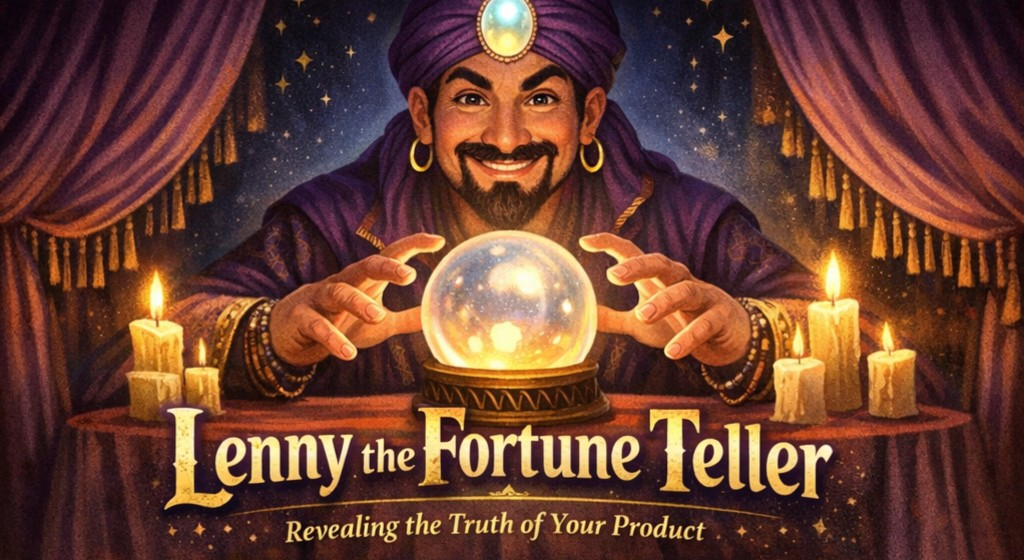
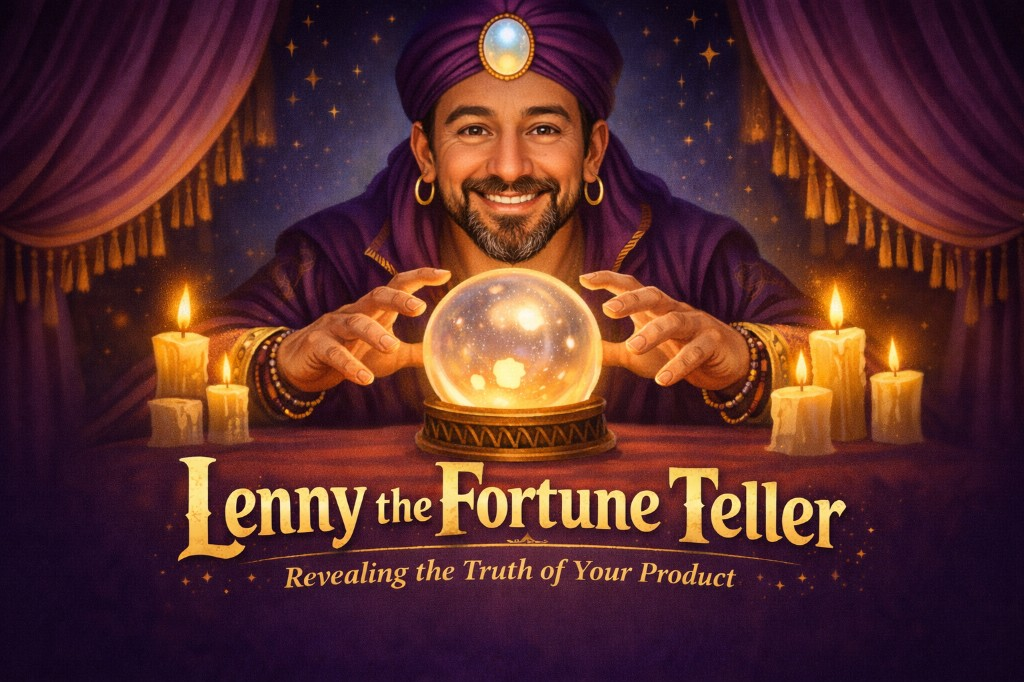
feat: new hero image with seamless fade, parallax, and deeper overlap
- Replace hero illustration with higher-res version
- Use mask-image on the image itself for smooth bottom dissolve
- Add dark purple gradient + vignette + purple glow overlay
- Add subtle scroll parallax (0.12x)
- Increase content overlap (-mt-20/28) so UI emerges from image

Made-with: Cursor

diff --git a/components/Hero.tsx b/components/Hero.tsx
@@ -1,10 +1,10 @@
 "use client"
 
-import { useMemo } from "react"
+import { useState, useEffect, useMemo } from "react"
 import { motion } from "framer-motion"
 import Image from "next/image"
 
-const PARTICLE_COUNT = 24
+const PARTICLE_COUNT = 20
 
 const seededRandom = (seed: number) => {
   const x = Math.sin(seed * 9301 + 49297) * 49297
@@ -12,6 +12,14 @@ const seededRandom = (seed: number) => {
 }
 
 const Hero = () => {
+  const [scrollY, setScrollY] = useState(0)
+
+  useEffect(() => {
+    const handleScroll = () => setScrollY(window.scrollY)
+    window.addEventListener("scroll", handleScroll, { passive: true })
+    return () => window.removeEventListener("scroll", handleScroll)
+  }, [])
+
   const heroParticles = useMemo(
     () =>
       Array.from({ length: PARTICLE_COUNT }, (_, i) => ({
@@ -28,92 +36,78 @@ const Hero = () => {
 
   return (
     <motion.section
-      className="relative w-full overflow-hidden"
+      className="relative w-full h-[380px] sm:h-[440px] md:h-[500px] lg:h-[540px] overflow-hidden"
       aria-label="Hero illustration"
-      initial={{ opacity: 0 }}
-      animate={{ opacity: 1 }}
-      transition={{ duration: 1.2, ease: "easeOut" }}
+      initial={{ opacity: 0, scale: 1.03 }}
+      animate={{ opacity: 1, scale: 1 }}
+      transition={{ duration: 1, ease: "easeOut" }}
     >
-      {/* ——— IMAGE CONTAINER ——— */}
-      <div className="relative w-full h-[280px] sm:h-[340px] md:h-[400px] lg:h-[420px]">
+      {/* ——— IMAGE (parallax + mask fade) ——— */}
+      <div
+        className="absolute inset-0 will-change-transform"
+        style={{ transform: `translateY(${scrollY * 0.12}px)` }}
+      >
         <div className="absolute inset-0 animate-hero-float">
           <Image
             src="/hero/lenny-wizard.png"
             alt="Lenny the Fortune Teller gazing into a crystal ball"
             fill
             priority
-            className="object-cover object-[center_25%]"
+            className="object-cover object-center"
             style={{
-              filter: "saturate(0.85) contrast(1.08) brightness(0.7)",
+              maskImage:
+                "linear-gradient(to bottom, black 0%, black 40%, transparent 92%)",
+              WebkitMaskImage:
+                "linear-gradient(to bottom, black 0%, black 40%, transparent 92%)",
             }}
           />
         </div>
-
-        {/* ——— GRADIENT MASK (bottom fade via mask-image) ——— */}
-        <div
-          className="absolute inset-0 pointer-events-none"
-          style={{
-            background: "#0B0B0F",
-            maskImage:
-              "linear-gradient(to top, black 0%, black 5%, transparent 55%)",
-            WebkitMaskImage:
-              "linear-gradient(to top, black 0%, black 5%, transparent 55%)",
-          }}
-        />
       </div>
 
-      {/* ——— ATMOSPHERIC TOP GRADIENT ——— */}
+      {/* ——— DARK PURPLE FADE (matches bg) ——— */}
       <div
-        className="absolute top-0 left-0 w-full h-[40%] z-10 pointer-events-none"
+        className="absolute inset-0 pointer-events-none"
         style={{
           background:
-            "linear-gradient(to bottom, rgba(18,12,42,0.6) 0%, rgba(11,11,15,0.15) 60%, transparent 100%)",
+            "linear-gradient(to bottom, transparent 0%, rgba(18,12,42,0.15) 35%, rgba(18,12,42,0.45) 55%, rgba(11,11,15,0.8) 75%, #0B0B0F 95%)",
         }}
       />
 
-      {/* ——— EXTENDED BOTTOM FADE (very smooth transition) ——— */}
+      {/* ——— VIGNETTE (edge darkness) ——— */}
       <div
-        className="absolute bottom-0 left-0 w-full h-[75%] z-10 pointer-events-none"
+        className="absolute inset-0 pointer-events-none"
         style={{
           background:
-            "linear-gradient(to bottom, transparent 0%, rgba(11,11,15,0.08) 15%, rgba(11,11,15,0.2) 30%, rgba(11,11,15,0.45) 45%, rgba(11,11,15,0.7) 58%, rgba(11,11,15,0.88) 70%, rgba(11,11,15,0.96) 82%, #0B0B0F 92%)",
+            "radial-gradient(ellipse 85% 80% at 50% 40%, transparent 45%, rgba(0,0,0,0.65) 100%)",
         }}
       />
 
-      {/* ——— VIGNETTE ——— */}
+      {/* ——— SOFT PURPLE GLOW (mystical atmosphere) ——— */}
       <div
-        className="absolute inset-0 z-10 pointer-events-none"
+        className="absolute inset-0 pointer-events-none"
         style={{
           background:
-            "radial-gradient(ellipse 80% 90% at 50% 40%, transparent 30%, rgba(0,0,0,0.5) 100%)",
+            "radial-gradient(circle at 50% 55%, rgba(91,46,255,0.12) 0%, transparent 60%)",
+          filter: "blur(40px)",
         }}
       />
 
-      {/* ——— SIDE CURTAIN FADE ——— */}
+      {/* ——— CRYSTAL BALL WARM GLOW ——— */}
       <div
-        className="absolute inset-0 z-10 pointer-events-none"
-        style={{
-          background:
-            "linear-gradient(to right, rgba(11,11,15,0.5) 0%, transparent 15%, transparent 85%, rgba(11,11,15,0.5) 100%)",
-        }}
-      />
-
-      {/* ——— CRYSTAL BALL GLOW ——— */}
-      <div
-        className="absolute z-10 pointer-events-none animate-hero-glow"
+        className="absolute pointer-events-none animate-hero-glow"
         style={{
           left: "50%",
-          bottom: "30%",
-          width: "300px",
-          height: "200px",
-          transform: "translateX(-50%)",
+          top: "50%",
+          width: "350px",
+          height: "250px",
+          transform: "translate(-50%, -20%)",
           background:
-            "radial-gradient(ellipse at center, rgba(245,196,81,0.08) 0%, transparent 70%)",
+            "radial-gradient(ellipse at center, rgba(245,196,81,0.1) 0%, transparent 65%)",
         }}
       />
 
       {/* ——— GOLD / VIOLET PARTICLES ——— */}
-      <div className="absolute inset-0 z-20 pointer-events-none overflow-hidden">
+      <div className="absolute inset-0 z-10 pointer-events-none overflow-hidden">
         {heroParticles.map((p) => (
           <div
             key={p.id}

diff --git a/app/page.tsx b/app/page.tsx
@@ -53,7 +53,7 @@ const Home = () => {
           >
             <Hero />
 
-            <div className="relative z-10 -mt-12 sm:-mt-16 flex flex-col items-center gap-6 px-4 pb-20">
+            <div className="relative z-10 -mt-20 sm:-mt-28 flex flex-col items-center gap-6 px-4 pb-20">
               <motion.div
                 initial={{ opacity: 0, y: -16 }}
                 animate={{ opacity: 1, y: 0 }}
